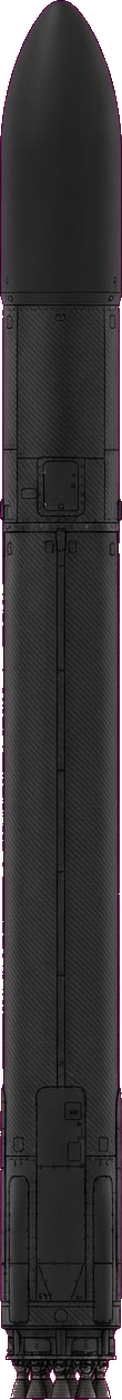
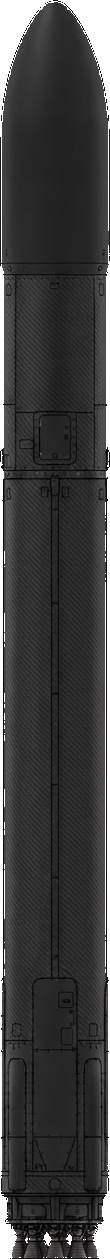
fix(rocket): stop destroying the render before the panel sees it
Logan pushed back that the posters plainly did not match the Higgsfield
renders. He was right, and a provenance strip -- same file by sha256, traced
through every stage -- located it in my code, not the panel and not the source.

ingest_tonal normalised every asset to 1400px TALL. That sounds harmless until
you notice a Falcon 9 is slender: 1400 tall made it 106px WIDE, discarding
384px of generated width before the panel ever saw it. The panel then took
that to 38. Most of "why is it pixellated" was this one line. Assets are now
stored at NATIVE resolution and scaled exactly once, at composite time --
Falcon goes 106x1400 -> 384x5079.

Second bug in the same strip: magenta fringe survived the chroma key into the
stored asset. Anti-aliased edge pixels are a BLEND of rocket and background,
so they keep a cast the flat key misses. Contaminated pixels are now removed
by a hue test, and whatever edge survives is desaturated to its own luminance
so no tint can reach the threshold step.

Slender vehicles now crop and bleed off the frame (Logan's choice of the three
options). Decided by silhouette rather than a hand-kept list: taller than 8x
its own width means a single core whose lower body carries no identifying
feature, so running it off the bottom costs nothing and doubles the drawn
size. Falcon 13.2, Vega 10.9, Electron 11.4 crop; Soyuz 4.6, Long March 3.2,
Angara 3.3 stay whole, because their flared strap-on base IS the
[…]

diff --git a/docs/rocket-poster-kit/ingest.py b/docs/rocket-poster-kit/ingest.py
@@ -83,8 +83,20 @@ def key_out(img, tol=78):
     bg = dist < tol
 
     r, g, b = rgb[:, :, 0], rgb[:, :, 1], rgb[:, :, 2]
-    fringe = (r > 110) & (b > 80) & (g < np.minimum(r, b) * 0.62)
+    # Anti-aliased edge pixels are a BLEND of rocket and background, so they
+    # keep a magenta cast that the flat key misses -- it survived all the way
+    # into the stored asset as coloured speckle along every edge. Any pixel
+    # where green sits meaningfully below both red and blue is contaminated;
+    # it is either background or a blend with it.
+    fringe = (g < np.minimum(r, b) * 0.80) & (r > 60) & (b > 45)
     a[bg | fringe] = (0, 0, 0, 0)
+    # Neutralise what is left: the surviving edge is desaturated to its own
+    # luminance, so no magenta tint can reach the threshold step.
+    keep = a[:, :, 3] > 0
+    lum = (0.299 * r + 0.587 * g + 0.114 * b).astype(np.uint8)
+    tinted = keep & (g < np.minimum(r, b) * 0.92)
+    for c in range(3):
+        a[:, :, c] = np.where(tinted, lum, a[:, :, c])
     return Image.fromarray(a, "RGBA")
 
 
@@ -134,23 +146,24 @@ def normalize(img, target_h=TARGET_H):
     return img.resize((max(1, round(img.width * scale)), target_h), Image.LANCZOS)
 
 
-def ingest_tonal(src, family, target_h=1400):
+def ingest_tonal(src, family, target_h=None):
     """Keyed, but NOT posterized -- greyscale detail preserved.
 
-    The flat two-ink asset is lossless but throws away every panel line and
-    highlight in the render, which only matters once the rocket is small. When
-    it is the hero of the composition, that detail IS the design, and error
-    diffusion is the right tool: a shaded metal cylinder keeps its roundness
-    through six-ink quantization. Dithering happens at composite time, against
-    the finished background, so the rocket is never quantized twice.
+    Stored at NATIVE resolution. An earlier version normalised every asset to
+    1400px tall, which sounds harmless until you notice a Falcon 9 is slender:
+    1400 tall made it 106px WIDE, discarding 384px of generated width before
+    the panel ever saw it. The panel then took that to 38. Most of the "why is
+    it pixellated" was this one line. Scaling happens once, at composite time,
+    from the full-resolution asset.
     """
     art = largest_blob(key_out(Image.open(src)))
     bbox = art.getbbox()
     if not bbox:
         raise ValueError("nothing left after keying")
     art = art.crop(bbox)
-    s = target_h / art.height
-    art = art.resize((max(1, round(art.width * s)), target_h), Image.LANCZOS)
+    if target_h:
+        s = target_h / art.height
+        art = art.resize((max(1, round(art.width * s)), target_h), Image.LANCZOS)
     os.makedirs(TONAL, exist_ok=True)
     out = os.path.join(TONAL, f"{family.lower().replace(' ', '-')}.png")
     art.save(out)

diff --git a/docs/rocket-poster-kit/poster.py b/docs/rocket-poster-kit/poster.py
@@ -48,18 +48,36 @@ def readable(ink, over):
     return ink if abs(_lum(ink) - _lum(over)) > 55 else on(over)
 
 
+# A vehicle taller than this many times its own width is a slender single core
+# -- Falcon, Electron, Vega. Shown whole it collapses to a ~40px sliver and all
+# the generated detail is wasted. Shown cropped it reads properly, and the part
+# that runs off frame is the plain lower body, not an identifying feature.
+#
+# The strap-on families are the opposite: their flared base IS the
+# identification (Soyuz's four tapered boosters, Long March's cluster), and
+# they are already 2-3x wider so they do not need the help. They stay whole.
+SLENDER_RATIO = 8.0
+
+
 def vehicle_layer(rec, h):
-    """Tonal render if the family has one, else the flat parametric fallback.
-    Coverage never has a hole; it has a lower-fidelity floor."""
+    """Returns (layer, y_offset). Tonal render if the family has one, else the
+    flat parametric fallback. Coverage never has a hole, only a lower floor."""
     fam = (rec.get("rocket_family") or "").strip()
     im = ingest.load_tonal(fam) if fam else None
     if im is None:
         im, _ = draw_vehicle(rec, palette_for(rec.get("destination")),
                              H=h, country=rec.get("country"))
-    if im is None:
-        return None
-    s = h / im.height
-    return im.resize((max(1, round(im.width * s)), h), Image.LANCZOS)
+        if im is None:
+            return None, 0
+        return im, -10
+
+    slender = im.height / im.width > SLENDER_RATIO
+    target = int(h * 2.3) if slender else h
+    sc = target / im.height
+    out = im.resize((max(1, round(im.width * sc)), target), Image.LANCZOS)
+    # Anchor the nose near the top either way; a slender vehicle's base simply
+    # continues past the bottom edge.
+    return out, -12
 
 
 def posterize_vehicle(layer, cut=118, contrast=1.35):
@@ -128,10 +146,10 @@ def render(rec, previous=None, art=None):
         # The field is already an exact ink and needs no quantization at all.
         # The vehicle is thresholded ALONE and composited through a hard alpha,
         # so no edge picks up a dithered fringe.
-        veh = vehicle_layer(rec, H + 20)
+        veh, vy = vehicle_layer(rec, H + 20)
         if veh is not None:
-            img.paste(posterize_vehicle(veh), (W - 250, -10), veh.split()[3].point(
-                lambda v: 255 if v > 140 else 0))
+            img.paste(posterize_vehicle(veh), (W - veh.width - 34, vy),
+                      veh.split()[3].point(lambda v: 255 if v > 140 else 0))
 
     d = ImageDraw.Draw(img)
     acc = readable(pal.accent, pal.field)
